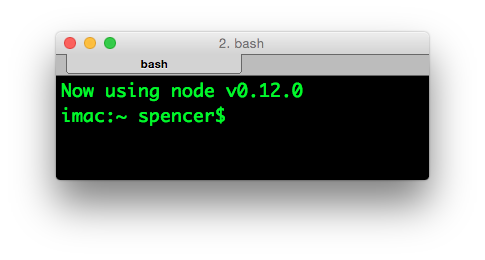
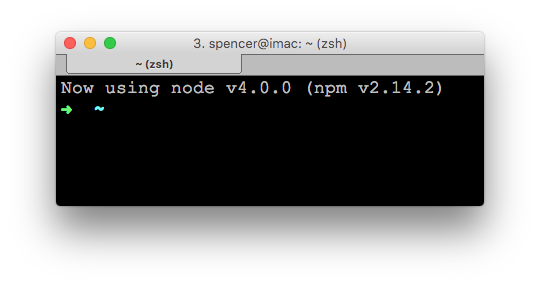
Updated nvm and node versions

Changed region(s): [[0.0928, 0.0923, 0.8969, 0.7385]]

diff --git a/docs/setup_windows.md b/docs/setup_windows.md
@@ -1,24 +1,22 @@
 # Setup for Windows
 
-Node.JS generally runs fine on Windows. Since there are many permutations of PC hardware and software, the instructions below are a generic way of installing a C++ compiler, Git, a text editor and Node.JS via the Node Version Manger for Windows.
+Download the [Node.JS Windows Installer](https://nodejs.org/en/download/) from the Node.JS downloads page. Run the installer and then restart your computer.
 
-## Install a C++ Compiler
-
-One of the powerful features of Node.JS is that can use native C++ extensions. To be able to compile C++ code we are going to need some development tools.
-
-You can quickly install build tools from the  [Win-builds](http://win-builds.org/1.5.0/win-builds-1.5.0.exe) package manager.
-
-After you have installed Win-builds tell your shell to use the version you want. For 64-bit Windows:
-
+To see if Node is installed, open the Windows Command Prompt, Powershell or a similar command line tool, and type:
 ```
-echo 'source /opt/windows_64/bin/win-builds-switch >/dev/null' >> ~/.profile
+node -v
 ```
 
-For 32-bit Windows:
+This should report the version number, which should be v4.0.0.
 
+Now test NPM by typing:
 ```
-echo 'source /opt/windows_32/bin/win-builds-switch >/dev/null' >> ~/.profile
+npm -v
 ```
+
+This should be v2.14.2.
+
+If you numbers are close but not exact, don't worry. As long as you have Node v4 and NPM v2, you should be OK.
 
 ## Install Git
 
@@ -38,27 +36,6 @@ After the shell commands have installed, we can add a few useful plugins to Atom
 
 ```
 apm install atom-beautify atom-handlebars jshint react
-```
-
-## Install NVMW and the Latest Node.JS
-
-The [Node Version Manager for Windows](https://github.com/creationix/nvm) allows us to install and quickly switch between different versions of Node. In a new Command Prompt:
-
-```
-git clone git://github.com/hakobera/nvmw.git "%HOMEDRIVE%%HOMEPATH%\.nvmw"
-
-```
-
-Activate nvmw by adding nvmw directory to your PATH environment variable:
-
-```
-set "PATH=%HOMEDRIVE%%HOMEPATH%\.nvmw;%PATH%"
-```
-
-Download the latest version of Node:
-
-```
-nvmw install 0.12.0
 ```
 
 ## Install RoboMongo

diff --git a/docs/setup_linux.md b/docs/setup_linux.md
@@ -60,7 +60,7 @@ apm install atom-beautify atom-handlebars jshint react
 The [Node Version Manager](https://github.com/creationix/nvm) allows us to install and quickly switch between different versions of Node. In a new Terminal:
 
 ```
-curl https://raw.githubusercontent.com/creationix/nvm/v0.24.1/install.sh | bash
+curl -o- https://raw.githubusercontent.com/creationix/nvm/v0.26.1/install.sh | bash
 ```
 
 Next you need to enable NVM:
@@ -72,16 +72,16 @@ source ~/.nvm/nvm.sh
 Download the latest version of Node:
 
 ```
-nvm install 0.12
+nvm install 4
 ```
 
-Tell new shells to use nvm and Node 0.12 on start up:
+Tell new shells to use nvm and Node v4.0.0 on start up:
 
 ```
-echo -e '\n#Config for Intro to Node.JS\nsource ~/.nvm/nvm.sh\nnvm use 0.12\nexport NODE_ENV=development' >> ~/.bash_profile
+echo -e '\n#Config for Intro to Node.JS\nsource ~/.nvm/nvm.sh\nnvm use 4\nexport NODE_ENV=development' >> ~/.bash_profile
 ```
 
-If you have setup your system correctly, when you open a new Terminal window your should see the message, "Now using Node 0.12".
+If you have setup your system correctly, when you open a new Terminal window your should see the message, "Now using Node v4.0.0".
 
 ![](img/nvm_install.png)
 

diff --git a/docs/setup_osx.md b/docs/setup_osx.md
@@ -75,7 +75,7 @@ apm install atom-beautify atom-handlebars jshint react
 The [Node Version Manager](https://github.com/creationix/nvm) allows us to install and quickly switch between different versions of Node. In a new Terminal:
 
 ```
-curl https://raw.githubusercontent.com/creationix/nvm/v0.24.1/install.sh | bash
+curl -o- https://raw.githubusercontent.com/creationix/nvm/v0.26.1/install.sh | bash
 ```
 
 Next you need to enable NVM:
@@ -87,16 +87,16 @@ source ~/.nvm/nvm.sh
 Download the latest version of Node:
 
 ```
-nvm install 0.12
+nvm install 4
 ```
 
 Tell new shells to use nvm and Node 0.12 on start up:
 
 ```
-echo -e '\n#Config for Intro to Node.JS\nsource ~/.nvm/nvm.sh\nnvm use 0.12\nexport NODE_ENV=development' >> ~/.bash_profile
+echo -e '\n#Config for Intro to Node.JS\nsource ~/.nvm/nvm.sh\nnvm use 4\nexport NODE_ENV=development' >> ~/.bash_profile
 ```
 
-If you have setup your system correctly, when you open a new Terminal window your should see the message, "Now using Node 0.12".
+If you have setup your system correctly, when you open a new Terminal window your should see the message, "Now using node v4.0.0 (npm v2.14.2)".
 
 ![](img/nvm_install.png)
 
